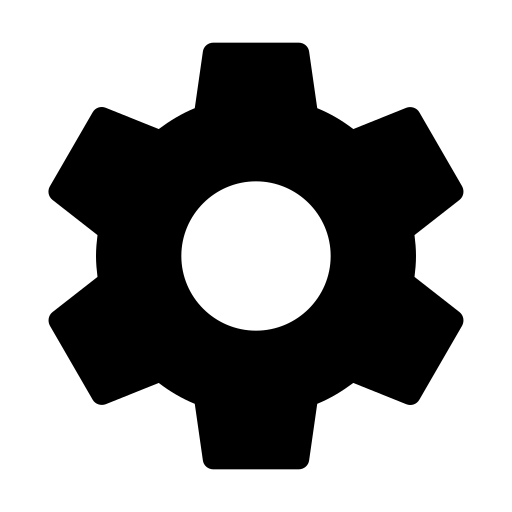
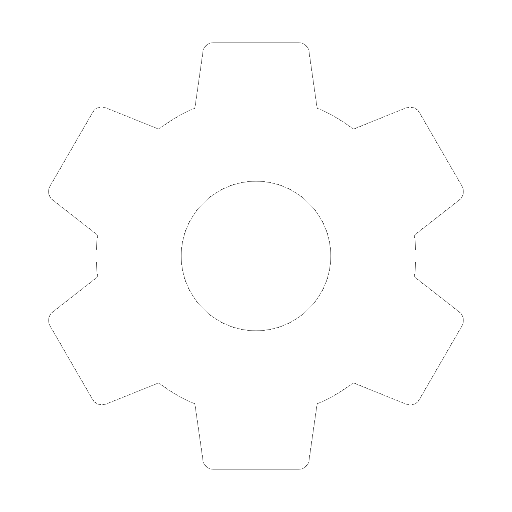
Добавлена иконка для кнопки 'Настройки'

diff --git a/DesktopApplication/View/FifthWindow/AddCustom.qml b/DesktopApplication/View/FifthWindow/AddCustom.qml
@@ -37,7 +37,7 @@ Dialog
                {
                    id: tE1
                    height: parent.height
-                   width: swidth * 28.313
+                   width: swidth * 29.8
                    font.family: "Helvetica"
                    font.pointSize: swidth * 1.5
                    color: "black"
@@ -74,7 +74,7 @@ Dialog
                {
                    id: tE2
                    height: parent.height
-                   width: swidth * 28.313
+                   width: swidth * 29.8
                    font.family: "Helvetica"
                    font.pointSize: swidth * 1.5
                    color: "black"
@@ -112,7 +112,7 @@ Dialog
                    model: CBModel{id :sec_winCB}
                    id: tE3
                    height: parent.height
-                   width: swidth * 27.6
+                   width: swidth * 29.8
                    editable: true
 
                     onAccepted: {
@@ -156,7 +156,7 @@ Dialog
                {
                    id: tE4
                    height: parent.height
-                   width: swidth * 28.313
+                   width: swidth * 29.8
                    font.family: "Helvetica"
                    font.pointSize: swidth * 1.5
                    color: "black"

diff --git a/DesktopApplication/View/FifthWindow/AddReg.qml b/DesktopApplication/View/FifthWindow/AddReg.qml
@@ -36,7 +36,7 @@ Dialog
                {
                    id: tE1
                    height: parent.height
-                   width: swidth * 28.313
+                   width: swidth * 29.8
                    font.family: "Helvetica"
                    font.pointSize: swidth * 1.5
                    color: "black"
@@ -73,7 +73,7 @@ Dialog
                {
                    id: tE2
                    height: parent.height
-                   width: swidth * 28.313
+                   width: swidth * 29.8
                    font.family: "Helvetica"
                    font.pointSize: swidth * 1.5
                    color: "black"

diff --git a/DesktopApplication/View/FirstWindow/FirstWindow.qml b/DesktopApplication/View/FirstWindow/FirstWindow.qml
@@ -134,7 +134,11 @@ ApplicationWindow
             y: sheight * 81.4814
             width: swidth * 7.7083
             height: swidth * 7.7083
-            text: "S"
+            display: AbstractButton.IconOnly
+            icon.width: width
+            icon.height: height
+            icon.color: "transparent"
+            icon.source: "/Source/settings.png"
             background: Rectangle
             {
                 color: "#D3B992"

diff --git a/DesktopApplication/View/SettingsWindow/SettingsWindow.qml b/DesktopApplication/View/SettingsWindow/SettingsWindow.qml
@@ -74,7 +74,7 @@ Rectangle {
             width: parent.width - parent.height/2-10
             height: parent.height/2
             model: com_port_model
-            onActivated: onAct(index)
+            onActivated:(index)=> onAct(index)
         }
 
         Button{
